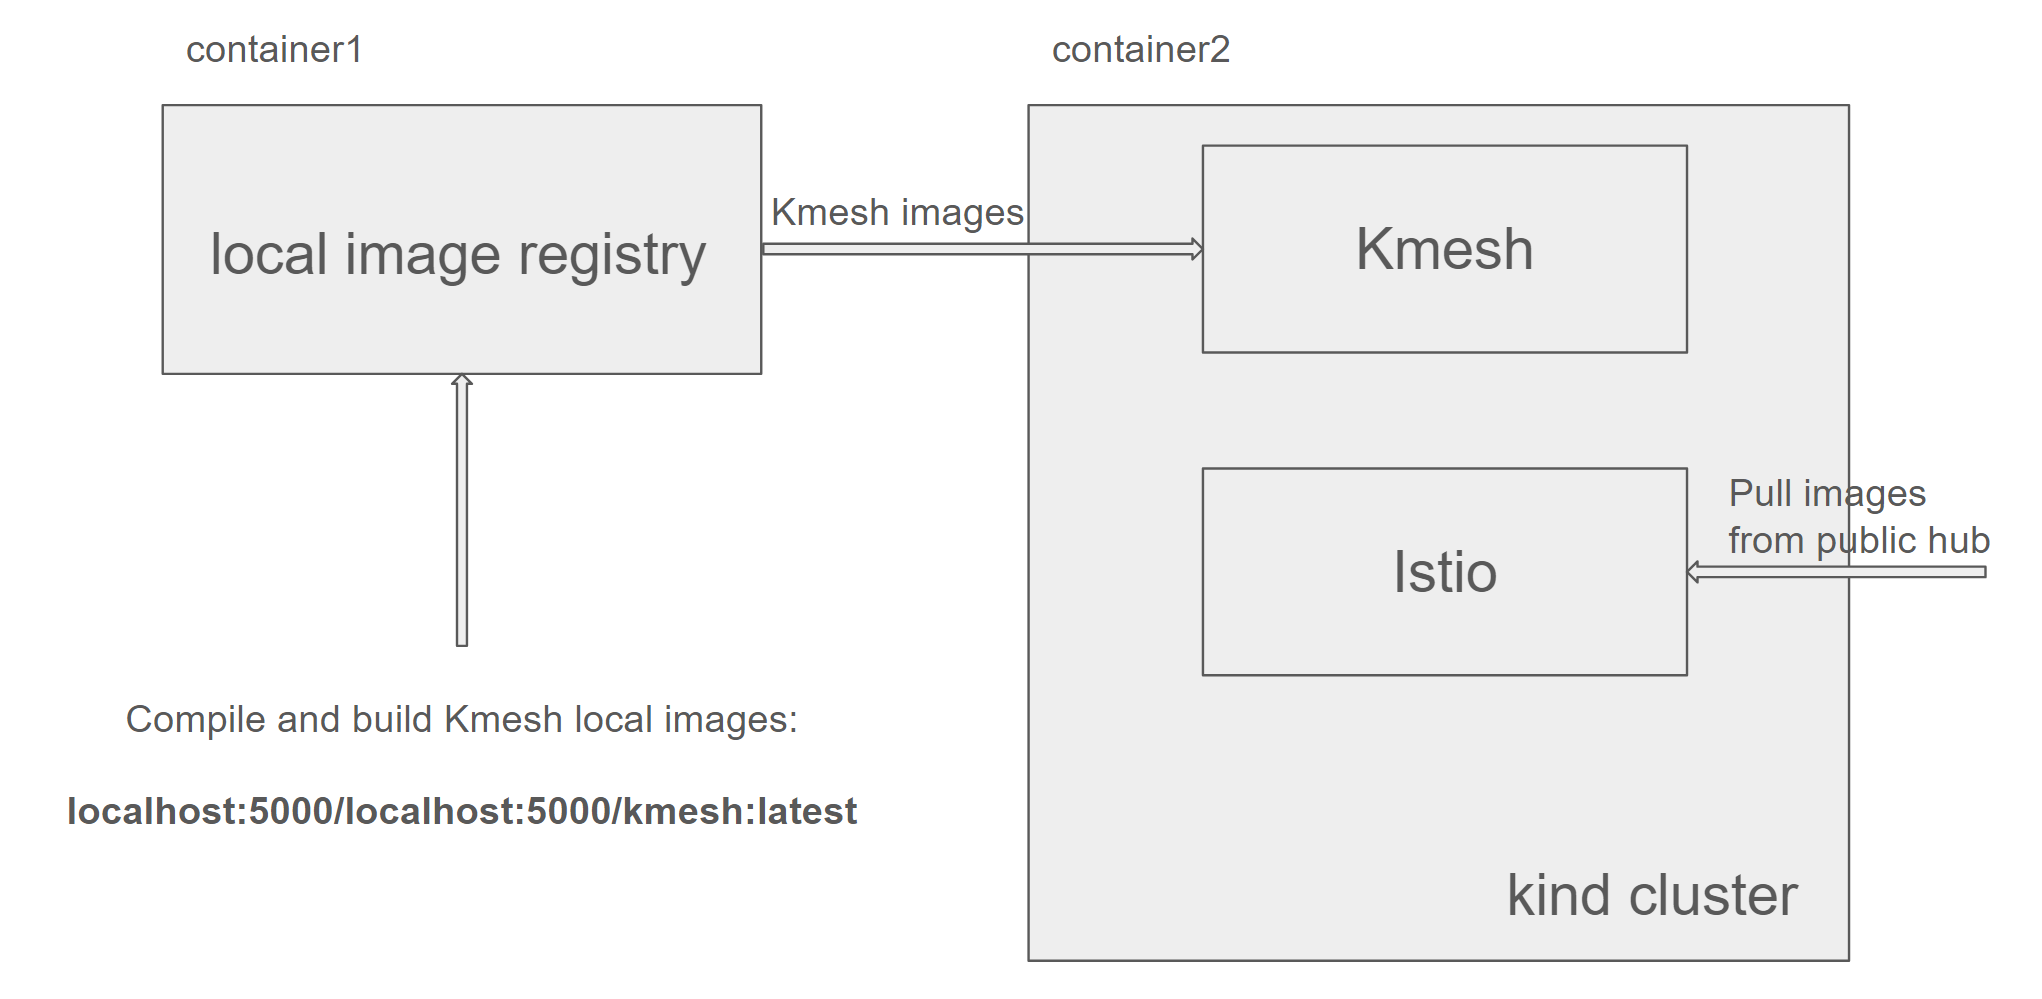
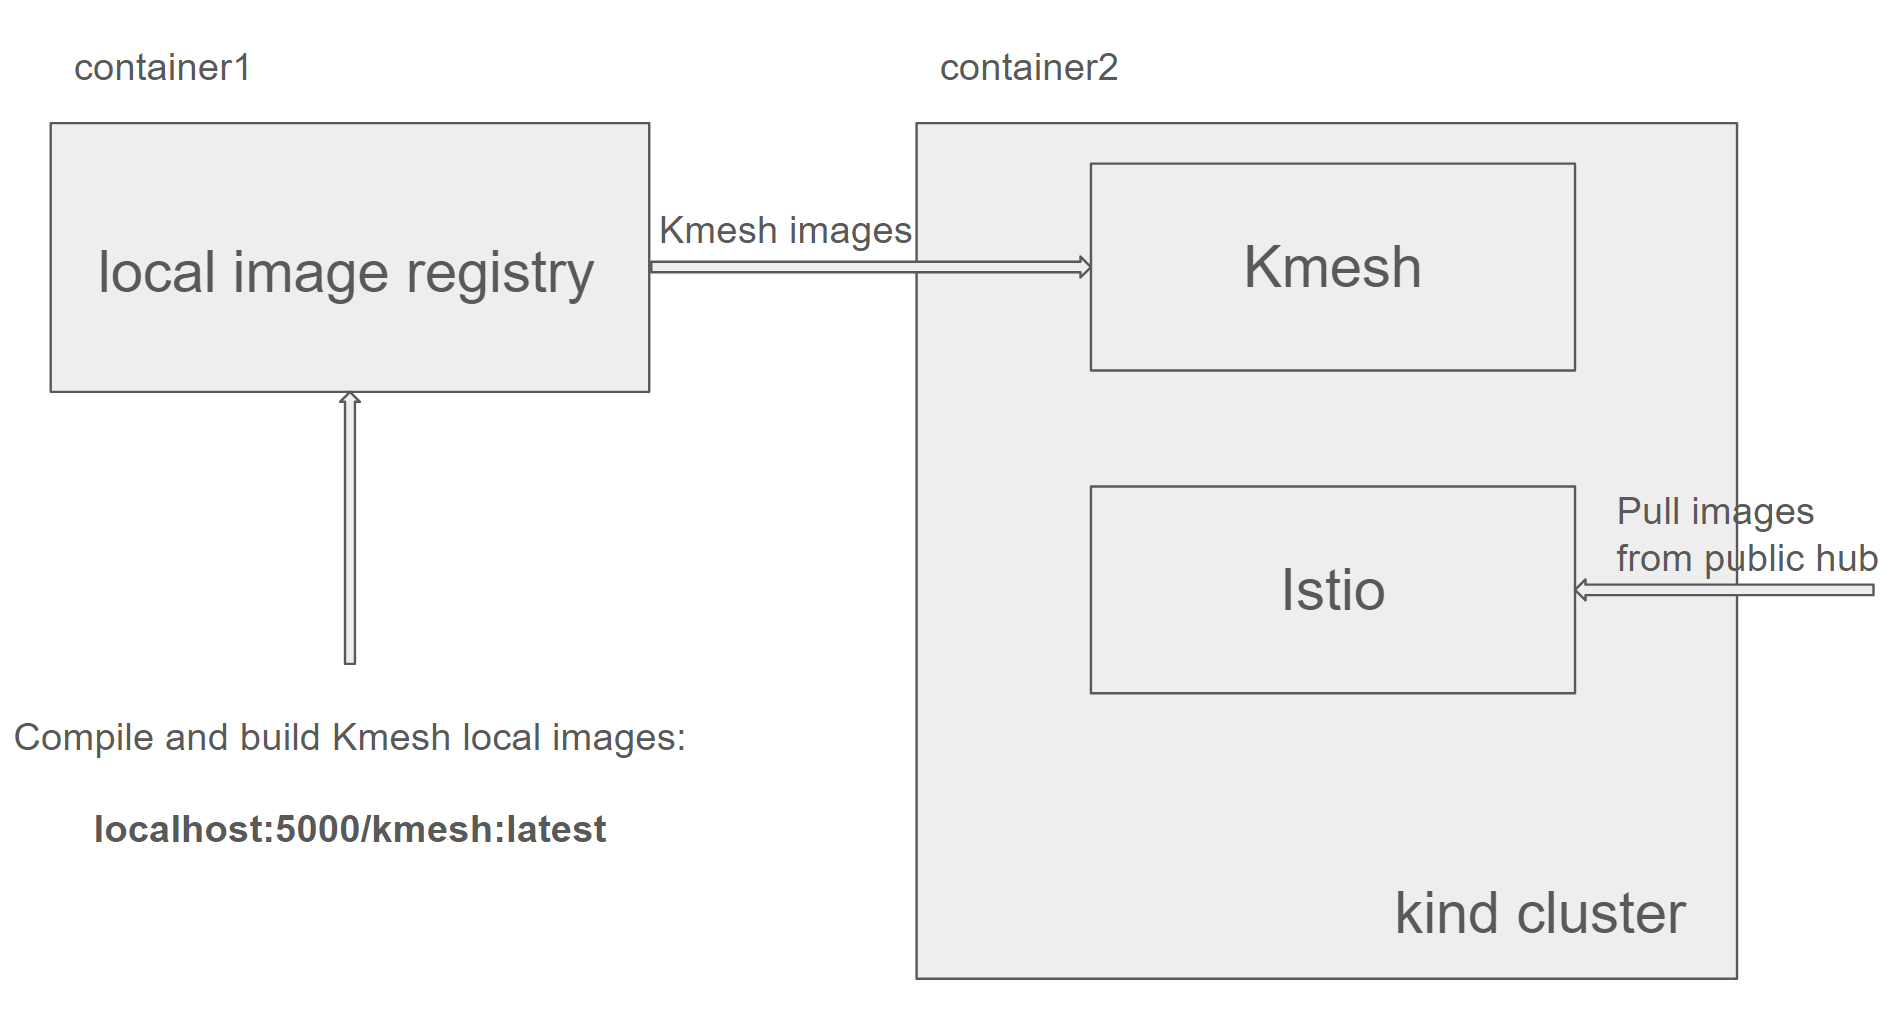
use helm to install Kmesh

diff --git a/test/e2e/main_test.go b/test/e2e/main_test.go
@@ -7,11 +7,11 @@ import (
 	"context"
 	"fmt"
 	"io"
-	"os"
 	"path"
 	"path/filepath"
 	"runtime"
 	"testing"
+	"time"
 
 	"istio.io/istio/pkg/config/constants"
 	"istio.io/istio/pkg/config/protocol"
@@ -19,6 +19,7 @@ import (
 	istioKube "istio.io/istio/pkg/kube"
 	"istio.io/istio/pkg/test/framework"
 	"istio.io/istio/pkg/test/framework/components/ambient"
+	kubecluster "istio.io/istio/pkg/test/framework/components/cluster/kube"
 	"istio.io/istio/pkg/test/framework/components/crd"
 	"istio.io/istio/pkg/test/framework/components/echo"
 	"istio.io/istio/pkg/test/framework/components/echo/common/ports"
@@ -27,10 +28,12 @@ import (
 	"istio.io/istio/pkg/test/framework/components/istio"
 	"istio.io/istio/pkg/test/framework/components/namespace"
 	"istio.io/istio/pkg/test/framework/resource"
+	"istio.io/istio/pkg/test/helm"
 	testKube "istio.io/istio/pkg/test/kube"
 	"istio.io/istio/pkg/test/scopes"
 	"istio.io/istio/tests/integration/security/util/cert"
 	v1 "k8s.io/api/core/v1"
+	kerrors "k8s.io/apimachinery/pkg/api/errors"
 	metav1 "k8s.io/apimachinery/pkg/apis/meta/v1"
 	gateway "sigs.k8s.io/gateway-api/apis/v1"
 )
@@ -40,8 +43,6 @@ var (
 
 	// KmeshSrc is the location of Kmesh source.
 	KmeshSrc = getDefaultKmeshSrc()
-
-	KmeshNS = "kmesh-system"
 
 	apps = &EchoDeployments{}
 )
@@ -75,6 +76,9 @@ const (
 	Uncaptured                = "uncaptured"
 	WaypointImageAnnotation   = "sidecar.istio.io/proxyImage"
 	KmeshCustomWaypointImage  = "ghcr.io/kmesh-net/waypoint-x86:v0.3.0"
+	Timeout                   = 2 * time.Minute
+	KmeshReleaseName          = "kmesh"
+	KmeshNamespace            = "kmesh-system"
 )
 
 func getDefaultKmeshSrc() string {
@@ -119,33 +123,29 @@ func TestMain(m *testing.M) {
 }
 
 func SetupKmesh(ctx resource.Context) error {
-	yamls, err := getKmeshYamls()
-	if err != nil {
-		return err
-	}
+	cs := ctx.Clusters().Default().(*kubecluster.Cluster)
 
-	return ctx.Clusters().Default().ApplyYAMLFiles("", yamls...)
-}
-
-func getKmeshYamls() ([]string, error) {
-	KmeshInstallFilePath := path.Join(KmeshSrc, "deploy/yaml/")
-
-	files, err := os.ReadDir(KmeshInstallFilePath)
-	if err != nil {
-		return nil, err
-	}
-
-	results := []string{}
-	for _, file := range files {
-		if file.IsDir() {
-			// TODO: consider the situation of multiple directories in the future.
-			continue
+	if _, err := cs.Kube().CoreV1().Namespaces().Create(context.TODO(), &v1.Namespace{
+		ObjectMeta: metav1.ObjectMeta{
+			Name: KmeshNamespace,
+		},
+	}, metav1.CreateOptions{}); err != nil {
+		if !kerrors.IsAlreadyExists(err) {
+			return fmt.Errorf("failed to create %v namespace: %v", KmeshNamespace, err)
 		}
-
-		results = append(results, filepath.Join(KmeshInstallFilePath, file.Name()))
 	}
 
-	return results, nil
+	h := helm.New(cs.Filename())
+
+	kmeshChartPath := path.Join(KmeshSrc, "deploy/helm/")
+
+	// Install Kmesh chart
+	err := h.InstallChartWithValues(KmeshReleaseName, kmeshChartPath, KmeshNamespace, []string{"--set deploy.kmesh.image.repository=localhost:5000/kmesh"}, Timeout)
+	if err != nil {
+		return fmt.Errorf("failed to install Kmesh chart: %v", err)
+	}
+
+	return nil
 }
 
 func SetupApps(t resource.Context, i istio.Instance, apps *EchoDeployments) error {
